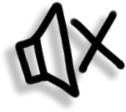
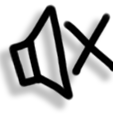
fix footer and header

diff --git a/src/components/Footer/Footer.jsx b/src/components/Footer/Footer.jsx
@@ -1,11 +1,38 @@
-import React from 'react';
-import footer from '../../assets/footer_bg.png'
+import React from "react";
+import footer_canna from "../../assets/footer_canna.png";
+import discord from "../../assets/discord bubble.png";
+import twitter from "../../assets/twitter bubble.png";
+import insta from "../../assets/instagram bubble.png";
+import continued from "../../assets/to be continued bubble.png";
+
 function Footer(props) {
-    return (
-        <div className={'footer'}>
-            <img src={footer} alt=""/>
-        </div>
-    );
+  return (
+    <div className={"footer"}>
+      <div className={"footer_img_container discord"}>
+          <a href={'https://discord.com'}>
+              <img src={discord} alt="" />
+          </a>
+      </div>
+      <div className={"footer_img_container twitter"}>
+          <a href={'https://twitter.com'} >
+              <img src={twitter} alt="" />
+          </a>
+      </div>
+
+      <div className={"footer_container canna_container"}>
+        <img src={footer_canna} alt="" />
+      </div>
+
+      <div className={"footer_img_container insta"}>
+          <a href={'https://www.instagram.com/'} >
+              <img src={insta} alt="" />
+          </a>
+      </div>
+      <div className={"footer_img_container continued"}>
+        <img src={continued} alt="" />
+      </div>
+    </div>
+  );
 }
 
 export default Footer;

diff --git a/src/components/Header/Header.jsx b/src/components/Header/Header.jsx
@@ -1,18 +1,23 @@
-import React from 'react';
-import sound from '../../assets/sound on.png'
+import React, {useState} from 'react';
+import soundOn from '../../assets/sound on.png'
+import soundOff from '../../assets/sound off.png'
 import canna from '../../assets/PUSHUP_SHADOW_00000.png'
 import header_title from '../../assets/header_title.png'
 import boombox from '../../assets/BOOMBOX_00000.png'
 import work_in_progress from '../../assets/work_in_progress.png'
 
 function Header(props) {
+    const [sound, setSound] = useState(false)
+    const handleClick = () =>{
+        setSound(!sound)
+    }
     return (
         <div className={'header'}>
             <div className={'header_title'}>
                 <img src={header_title} alt=""/>
             </div>
-            <div className={'header_sound'}>
-                <img src={sound} alt=""/>
+            <div className={'header_sound'} onClick={handleClick}>
+                <img src={sound ? soundOn : soundOff} alt=""/>
             </div>
             <div className={'work_in_progress'}>
                 <img src={work_in_progress} alt=""/>

diff --git a/src/styles/footerStyle.scss b/src/styles/footerStyle.scss
@@ -1,0 +1,41 @@
+.footer{
+  display: flex;
+  justify-content: center;
+  padding-top: 25%;
+  background-image: url("../assets/footer_bg.png");
+  background-repeat: no-repeat;
+  background-size: cover;
+  position: relative;
+
+  .canna_container{
+    display: flex;
+    align-items: end;
+    width: 45%;
+    margin: auto;
+  }
+  .continued{
+    width: 27.9%;
+    height: 33%;
+    position: absolute;
+    bottom: 0;
+    right: 0;
+  }
+  .insta{
+    position: absolute;
+    width: 25%;
+    left: 65%;
+    bottom: 42%;
+  }
+  .discord{
+    position: absolute;
+    width: 30%;
+    left: 15%;
+    bottom: 35%;
+  }
+  .twitter{
+    position: absolute;
+    width: 25%;
+    left: 9%;
+    bottom: 18%;
+  }
+}

diff --git a/src/styles/headerStyle.scss b/src/styles/headerStyle.scss
@@ -14,9 +14,11 @@
   }
   .header_sound{
     width: 5%;
+    height: 9%;
     position: absolute;
     right: 2%;
     top: 2%;
+    cursor: pointer;
   }
   .work_in_progress{
     width: 20%;
@@ -31,6 +33,7 @@
       width: 30%;
       display: flex;
       align-items: end;
+      padding-bottom: 2%;
     }
     .header_push_canna{
       width: 70%;
